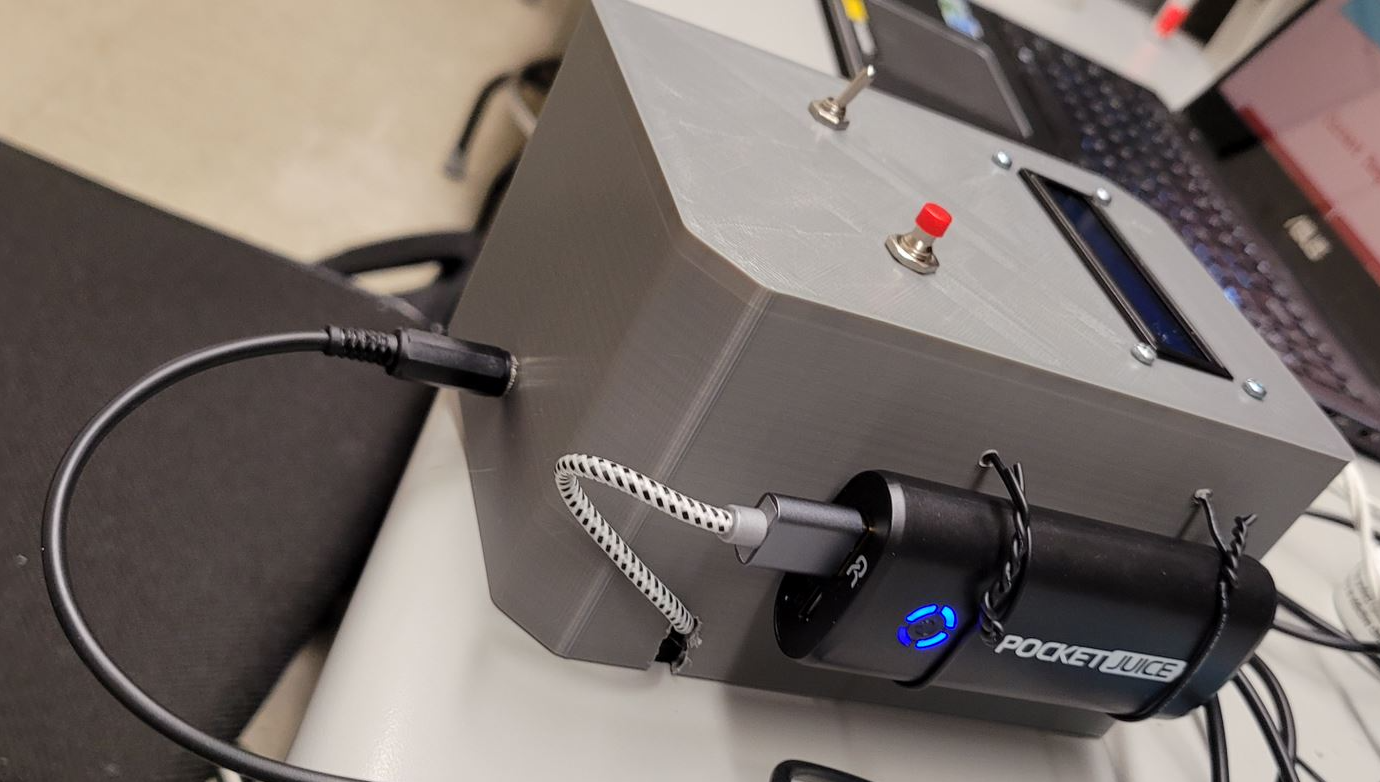
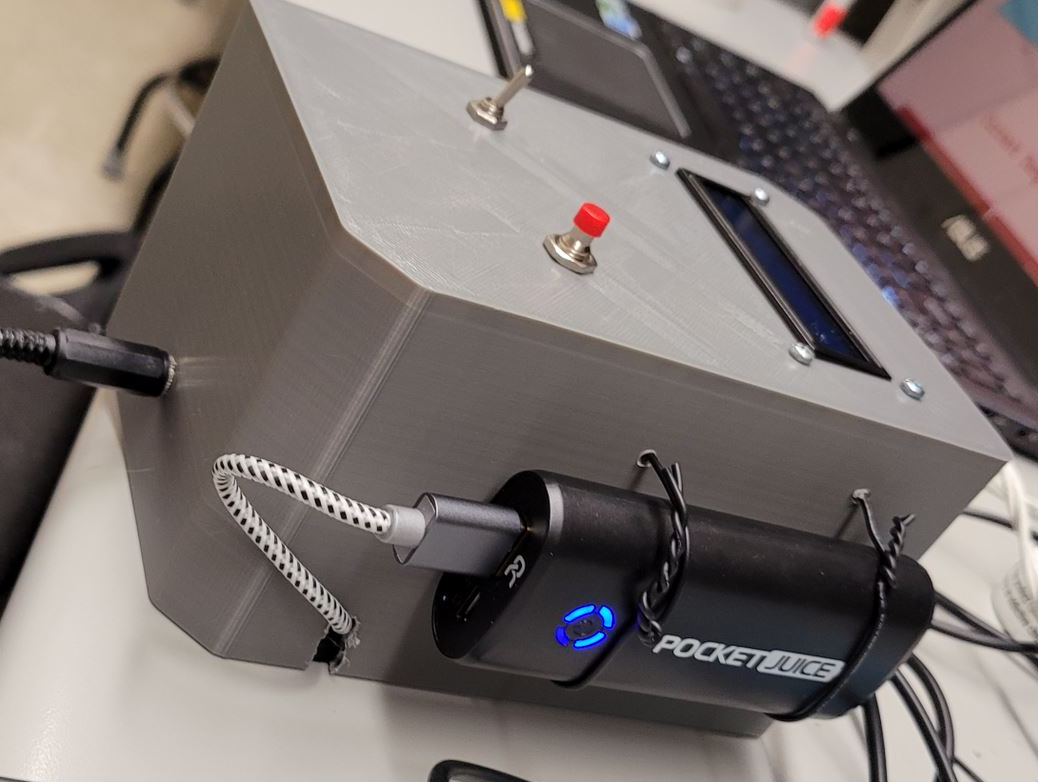
added lab images for about page

diff --git a/src/pages/about.js b/src/pages/about.js
@@ -20,6 +20,8 @@ const AboutPage = () => {
           
           <h1>About Our Team</h1>
           <h2>About Our Team</h2>
+          <div className='imagecontainer lab1Pic'></div>
+          <div className='imagecontainer lab2Pic'></div>
           <div className='imagecontainer'>
           </div>
           <div className="container">

diff --git a/src/styles/global.css b/src/styles/global.css
@@ -76,6 +76,14 @@ body {
     background-image: url("./../images/chrisDoggos.jpg")
 }
 
+.lab1Pic{
+    background-image: url("./../images/lab1.png")
+}
+
+.lab2Pic{
+    background-image: url("./../images/lab2.png")
+}
+
 .chrisButton {
     background-image: url("./../images/chrisButtonPic.jpg");
     background-size: 100%;
